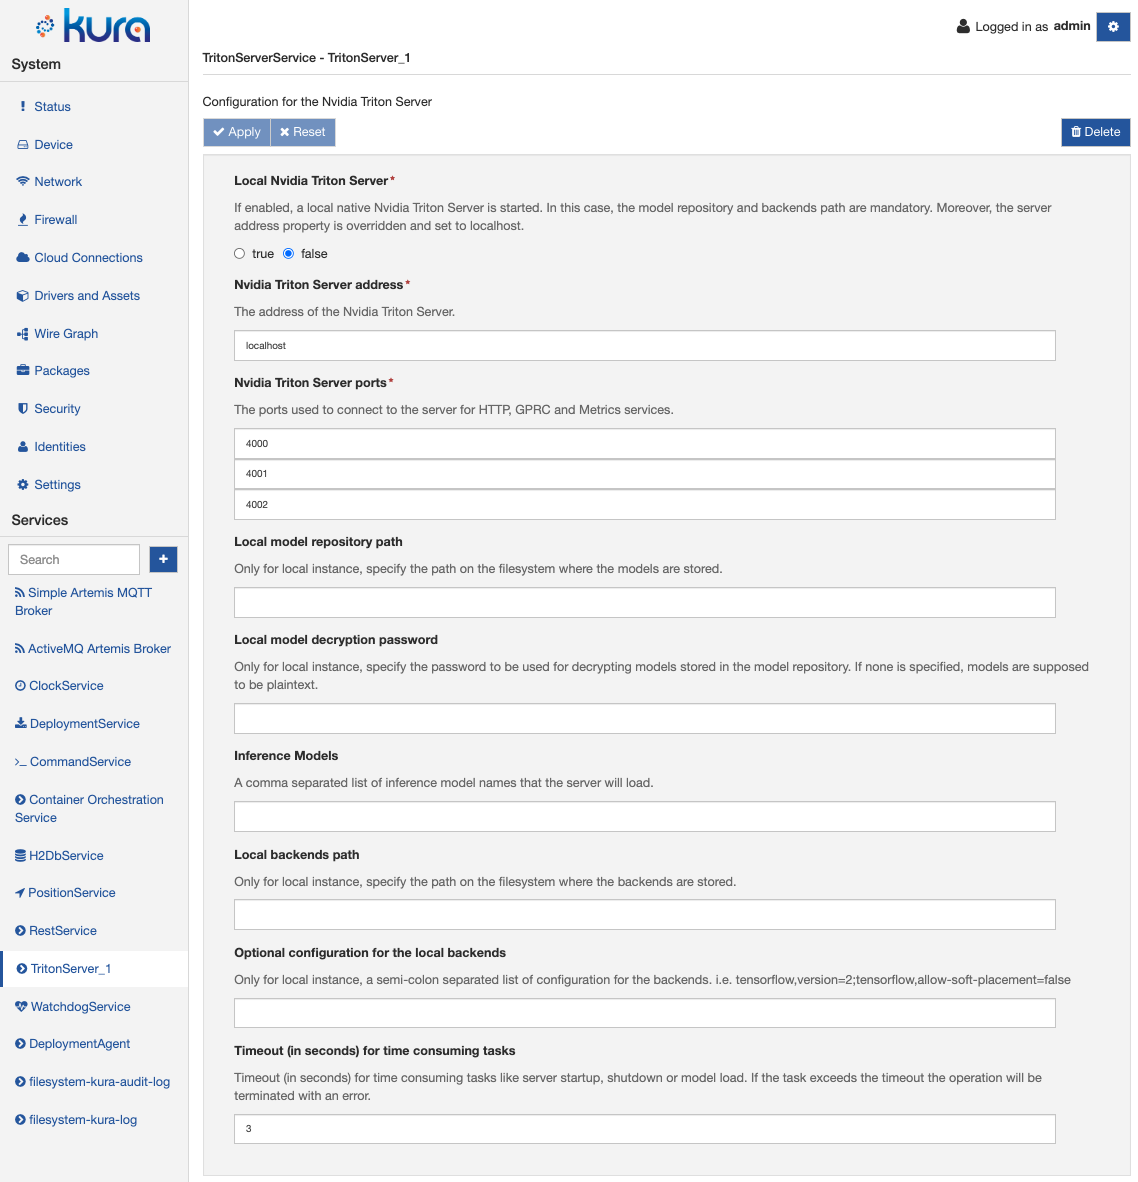
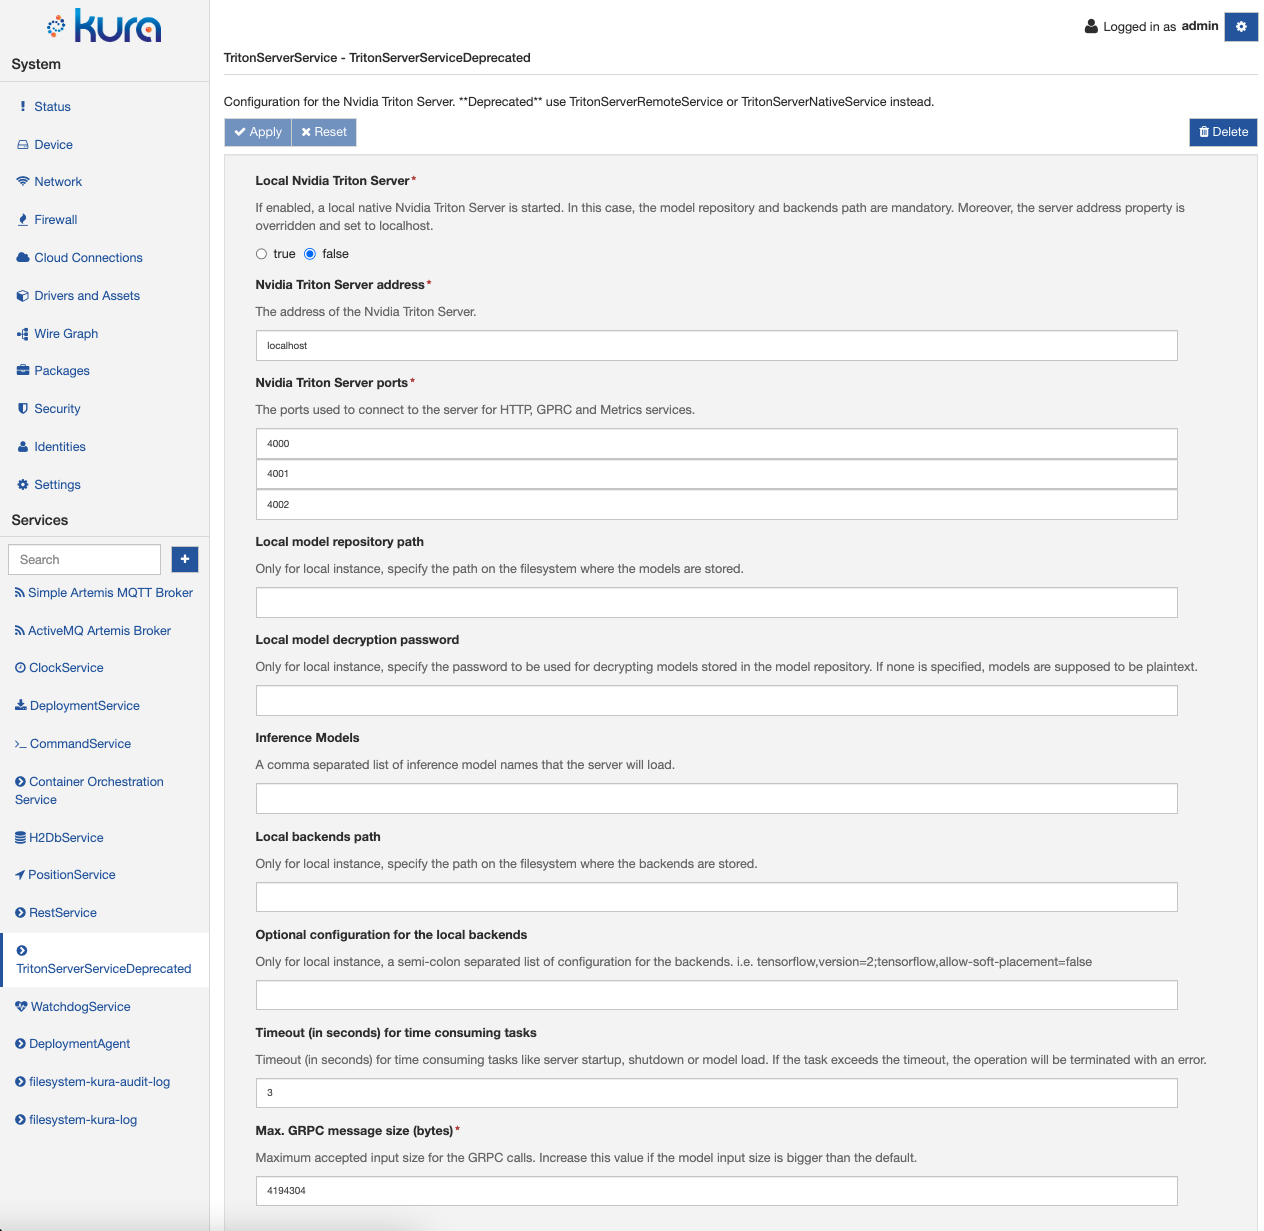
docs: Triton Server Service update with new components and deprecation (#4074)
* fix: removed dupicated line

* docs: add list of available components

* docs: add Remote Triton Component section and related img

* docs: add Native Triton Component section and related img

* fix: rename link

* docs: reordered introductory component list

* docs: moved installation section up

* docs: added note about native installation on supported devices

* docs: remove numbering

* docs: add introductory paragrah for Remote Service

* docs: add introductory paragraph for Native service component

* docs: add "native" qualifier

* docs: more explicit titles for example configurations

* docs: update TritonServerService image

diff --git a/_posts/builtin/2017-10-23-nvidiatm-triton-server-inference-engine.md b/_posts/builtin/2017-10-23-nvidiatm-triton-server-inference-engine.md
@@ -6,33 +6,14 @@ categories: [builtin]
 
 The [Nvidia™ Triton Server](https://developer.nvidia.com/nvidia-triton-inference-server) is an open-source inference service software that enables the user to deploy trained AI models from any framework on GPU or CPU infrastructure. It supports all major frameworks like TensorFlow, TensorRT, PyTorch, ONNX Runtime, and even custom framework backend. With specific backends, it is also possible to run Python scripts, mainly for pre-and post-processing purposes, and exploit the [DALI](https://github.com/triton-inference-server/dali_backend) building block for optimized operations. For more detail about the Triton Server, please refer to the official [website](https://github.com/triton-inference-server/server).
 
-The Kura Triton Server component is the implementation of the inference engine APIs and provides methods for interacting with a local or remote Nvidia™ Triton Server. As presented below, the component enables the user to configure a local server running on the gateway or to communicate to an external server to load specific models.
-
-![triton_server]({{ site.baseurl }}/assets/images/builtin/triton_server.png)
-
-The parameters used to configure the Triton Service are the following:
-
- - **Local Nvidia Triton Server**: If enabled, a local native Nvidia Triton Server is started on the gateway. In this case, the model repository and backends path are mandatory. Moreover, the server address property is overridden and set to localhost. Be aware that the Triton Server has to be already installed on the system.
- - **Nvidia Triton Server address**: the address of the Nvidia Triton Server.
- - **Nvidia Triton Server ports**: the ports used to connect to the server for HTTP, GRPC, and Metrics services.
- - **Local model repository path**: Only for a local instance, specify the path on the filesystem where the models are stored.
- - **Local model decryption password**: Only for local instance, specify the password to be used for decrypting models stored in the model repository. If none is specified, models are supposed to be plaintext.
- - **Inference Models**: a comma-separated list of inference model names that the server will load. The models have to be already present in the filesystem where the server is running. This option simply tells the server to load the given models from a local or remote repository.
- - **Local backends path**: Only for a local instance, specify the path on the filesystem where the backends are stored.
- - **Optional configuration for the local backends**: Only for local instance, a semi-colon separated list of configuration for the backends. i.e. tensorflow,version=2;tensorflow,allow-soft-placement=false 
- - **Timeout (in seconds) for time consuming tasks**: Timeout (in seconds) for time consuming tasks like server startup, shutdown or model load. If the task exceeds the timeout, the operation will be terminated with an error.
- - **Max. GRPC message size (bytes)**: this field controls the maximum allowed size for the GRPC calls to the server instance. By default, size of 4194304 bytes (= 4.19 MB) is used. Increase this value to be able to send large amounts of data as input to the Triton server (like Full HD images). The Kura logs will show the following error when exceeding such limit:
-
-    ```
-    io.grpc.StatusRuntimeException: RESOURCE_EXHAUSTED: gRPC message exceeds maximum size 4194304
-    ```
- 
-> Pay attention on the ports used for communicating with the Triton Server. The default ports are the 8000-8002, but these are tipically used by Kura for debug purposes.
-> Pay attention on the ports used for communicating with the Triton Server. The default ports are the 8000-8002, but these are tipically used by Kura for debug purposes. 
+Kura provides three components for exposing the Triton Server service functionality which implement the inference engine APIs and provides methods for interacting with a local or remote Nvidia™ Triton Server:
+- **TritonServerRemoteService**: provides methods for interacting with a remote Nvidia™ Triton Server without managing the server lifecycle. Can be used both for connecting to a remote instance or a local non-managed instance. It exposes a simpler but more limited configuration.
+- **TritonServerNativeService**: provides methods for interacting with a local native Nvidia™ Triton Server. Requires the Triton Server executable to be already available on the device and offers more options and features (like AI Model Encryption).
+- **TritonServerService**: provides methods for interacting with a local or remote Nvidia™ Triton Server within the same component. **Note**: _deprecated since 5.2.0_ 
 
 ## Nvidia™ Triton Server installation
 
-Before running Kura's Triton Server Service, you must install the Triton Inference Server. Here you can find the necessary steps for the two suggested installation methods.
+Before running Kura's Triton Server Service, you must install the Triton Inference Server. Here you can find the necessary steps for the available installation methods.
 
 ### Native Triton installation on Jetson devices
 
@@ -55,13 +36,81 @@ $ docker pull nvcr.io/nvidia/tritonserver:<xx.yy>-py3
 
 Where \<xx.yy\> is the version of Triton that you want to pull.
 
+### Native Triton installation on supported devices
+
+The official docs mention the possibility to perform a native installation on supported platform by [extracting the binaries](https://github.com/triton-inference-server/server/blob/main/docs/build.md#extract-build-artifacts) from the Docker images. To do so you must install the necessary dependencies (some can be found in the Jetson [runtime dependencies docs](https://github.com/triton-inference-server/server/blob/main/docs/jetson.md#runtime-dependencies-for-triton)) on the system. For Triton to support NVIDIA GPUs you must install CUDA, cuBLAS and cuDNN referencing the [support matrix](https://docs.nvidia.com/deeplearning/frameworks/support-matrix/index.html).
+
+**Note**: for Python models the libraries available to the Python model are the ones available for the user running the Triton server. Therefore you'll need to install the libraries through `pip` for the `kurad` user.
+
 ### Triton Server setup
 
 The Triton Inference Server serves models from one or more model repositories that are specified when the server is started. The model repository is the directory where you place the models that you want Triton to serve. Be sure to follow [the instructions](https://github.com/triton-inference-server/server/blob/main/docs/model_repository.md) to setup the model repository directory.
 
 Further information about an example Triton Server setup can be found in the [official documentation](https://github.com/triton-inference-server/server/blob/main/docs/quickstart.md).
 
-## Configuration for a local native Triton Server
+## Triton Server Remote Service component
+
+The Kura Triton Server Remote Service component is the implementation of the inference engine APIs and provides methods for interacting with a remote (i.e. unmnanaged) Nvidia™ Triton Server. As presented below, the component enables the user to communicate to an external server to load specific models. With this component the server lifecycle (startup, shutdown) won't be handled by Kura and it's the user responsibility to make it available to Kura for connecting.
+
+![triton_remote_server]({{ site.baseurl }}/assets/images/builtin/triton_remote_server.png)
+
+The parameters used to configure the Triton Service are the following:
+
+ - **Nvidia Triton Server address**: the address of the Nvidia Triton Server.
+ - **Nvidia Triton Server ports**: the ports used to connect to the server for HTTP, GRPC, and Metrics services.
+ - **Inference Models**: a comma-separated list of inference model names that the server will load. The models have to be already present in the filesystem where the server is running. This option simply tells the server to load the given models from a local or remote repository.
+ - **Timeout (in seconds) for time consuming tasks**: Timeout (in seconds) for time consuming tasks like server startup, shutdown or model load. If the task exceeds the timeout, the operation will be terminated with an error.
+ - **Max. GRPC message size (bytes)**: this field controls the maximum allowed size for the GRPC calls to the server instance. By default, size of 4194304 bytes (= 4.19 MB) is used. Increase this value to be able to send large amounts of data as input to the Triton server (like Full HD images). The Kura logs will show the following error when exceeding such limit:
+
+    ```
+    io.grpc.StatusRuntimeException: RESOURCE_EXHAUSTED: gRPC message exceeds maximum size 4194304
+    ```
+
+> **Note**: Pay attention on the ports used for communicating with the Triton Server. The default ports are the 8000-8002, but these are tipically used by Kura for debug purposes.
+
+## Triton Server Native Service component
+
+The Kura Triton Server component is the implementation of the inference engine APIs and provides methods for interacting with a local native Nvidia™ Triton Server. As presented below, the component enables the user to configure a local server running on the gateway and handles its lifecycle. This operating mode supports more features for interacting with the server like the [AI Model Encryption](#ai-model-encryption-support).
+
+> **Requirement**: `tritonserver` executable needs to be available in the path to the `kurad` user. Be sure to have a working Triton Server installation before configuring the local native Triton Server instance through Kura UI.
+
+![triton_native_server]({{ site.baseurl }}/assets/images/builtin/triton_native_server.png)
+
+The parameters used to configure the Triton Service are the following:
+
+ - **Nvidia Triton Server ports**: the ports used to connect to the server for HTTP, GRPC, and Metrics services.
+ - **Local model repository path**: Specify the path on the filesystem where the models are stored.
+ - **Local model decryption password**: Specify the password to be used for decrypting models stored in the model repository. If none is specified, models are supposed to be plaintext.
+ - **Inference Models**: a comma-separated list of inference model names that the server will load. The models have to be already present in the filesystem where the server is running. This option simply tells the server to load the given models from a local or remote repository.
+ - **Local backends path**: Specify the path on the filesystem where the backends are stored.
+ - **Optional configuration for the local backends**: A semi-colon separated list of configuration for the backends. i.e. tensorflow,version=2;tensorflow,allow-soft-placement=false 
+ - **Timeout (in seconds) for time consuming tasks**: Timeout (in seconds) for time consuming tasks like server startup, shutdown or model load. If the task exceeds the timeout, the operation will be terminated with an error.
+ - **Max. GRPC message size (bytes)**: this field controls the maximum allowed size for the GRPC calls to the server instance.
+
+> **Note**: Pay attention on the ports used for communicating with the Triton Server. The default ports are the 8000-8002, but these are tipically used by Kura for debug purposes.
+
+## Triton Server Service component [deprecated since 5.2.0]
+
+The Kura Triton Server component is the implementation of the inference engine APIs and provides methods for interacting with a local or remote Nvidia™ Triton Server. As presented below, the component enables the user to configure a local server running on the gateway or to communicate to an external server to load specific models.
+
+![triton_server]({{ site.baseurl }}/assets/images/builtin/triton_server.png)
+
+The parameters used to configure the Triton Service are the following:
+
+ - **Local Nvidia Triton Server**: If enabled, a local native Nvidia Triton Server is started on the gateway. In this case, the model repository and backends path are mandatory. Moreover, the server address property is overridden and set to localhost. Be aware that the Triton Server has to be already installed on the system.
+ - **Nvidia Triton Server address**: the address of the Nvidia Triton Server.
+ - **Nvidia Triton Server ports**: the ports used to connect to the server for HTTP, GRPC, and Metrics services.
+ - **Local model repository path**: Only for a local instance, specify the path on the filesystem where the models are stored.
+ - **Local model decryption password**: Only for local instance, specify the password to be used for decrypting models stored in the model repository. If none is specified, models are supposed to be plaintext.
+ - **Inference Models**: a comma-separated list of inference model names that the server will load. The models have to be already present in the filesystem where the server is running. This option simply tells the server to load the given models from a local or remote repository.
+ - **Local backends path**: Only for a local instance, specify the path on the filesystem where the backends are stored.
+ - **Optional configuration for the local backends**: Only for local instance, a semi-colon separated list of configuration for the backends. i.e. tensorflow,version=2;tensorflow,allow-soft-placement=false 
+ - **Timeout (in seconds) for time consuming tasks**: Timeout (in seconds) for time consuming tasks like server startup, shutdown or model load. If the task exceeds the timeout, the operation will be terminated with an error.
+ - **Max. GRPC message size (bytes)**: this field controls the maximum allowed size for the GRPC calls to the server instance.
+
+> **Note**: Pay attention on the ports used for communicating with the Triton Server. The default ports are the 8000-8002, but these are tipically used by Kura for debug purposes.
+
+### Configuration for a local native Triton Server with Triton Server Service component [deprecated since 5.2.0]
 
 > **Requirement**: `tritonserver` executable needs to be available in the path to the `kurad` user. Be sure to have a working Triton Server installation before configuring the local native Triton Server instance through Kura UI.
 
@@ -89,7 +138,7 @@ tritonserver --model-repository=<model_repository_path> \
 ...
 ```
 
-## Configuration for a local Triton Server running in a Docker container
+### Configuration for a local Triton Server running in a Docker container with Triton Server Service component [deprecated since 5.2.0]
 
 If the Nvidia™ Triton Server is running as a Docker container in the gateway, the following configuration is required:
 
@@ -111,7 +160,7 @@ nvcr.io/nvidia/tritonserver:[version] \
 tritonserver --model-repository=/models --model-control-mode=explicit
 ```
 
-## Configuration for a remote Triton Server
+### Configuration for a remote Triton Server with Triton Server Service component [deprecated since 5.2.0]
 
 When the Nvidia™ Triton Server is running on a remote server, the following configuration is needed:
 
